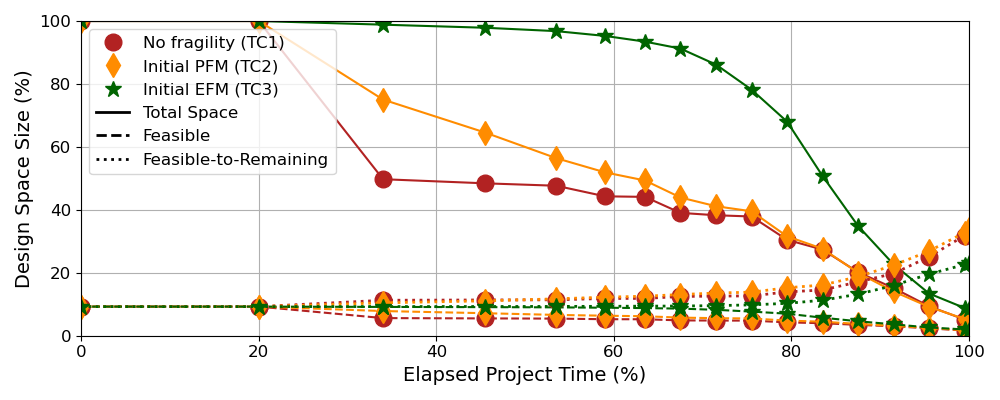
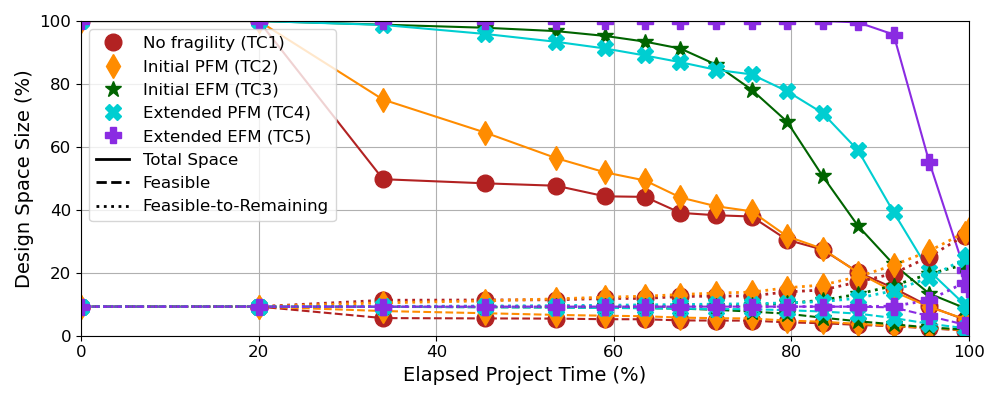
More results gathered

diff --git a/Python Code/Simulation_Results_Extend1_200_DTC1/plot_data.py b/Python Code/Simulation_Results_Extend1_200_DTC1/plot_data.py
@@ -49,7 +49,11 @@ def plotData(data, label_prefix, linestyle, colors, color_idx, marker):
     """
     
     # Loop through each test case's data
-    for i, (test_case, data_points) in enumerate(data.items()):
+    for i, test_case in enumerate(sorted(data.keys(), 
+                                         key=lambda x: int(x.split('_')[-1]))):
+        
+        # Assign data points
+        data_points = data[test_case]
         
         # Sort data points by its time iteration keys
         sorted_data_points = sorted(data_points.items(), key=lambda x: x[0])
@@ -106,15 +110,17 @@ def plotDisciplines(all_disciplines_data, feas1_disciplines_data,
     """
     
     # Initialize colors, line styles, markers, and legend names
-    colors = ['firebrick', 'darkorange', 'darkgreen']
+    colors = ['firebrick', 'darkorange', 'darkgreen', 'darkturquoise', 
+              'blueviolet']
     # line_styles = ['-', '--', ':', '-.', 'None', 'None']
     line_styles = ['-', '--', ':']
     # markers = ['', '', '', '', '*', '+']
-    markers = ['o', 'd', '*']
+    markers = ['o', 'd', '*', 'X', 'P']
     # data_groups = ['Total Space', 'Feasible Space', 'Feasible-to-Remaining']
     data_groups = ['Total Space', 'Feasible', 'Feasible-to-Remaining']
     custom_names = ["No fragility (TC1)", "Initial PFM (TC2)", 
-                    "Initial EFM (TC3)"] # , "Extended PFM (TC4)", "Extended EFM (TC5)"
+                    "Initial EFM (TC3)", "Extended PFM (TC4)",
+                    "Extended EFM (TC5)"]
     
     # Loop through each discipline's data
     for discipline, all_test_cases_data in all_disciplines_data.items():
@@ -196,7 +202,9 @@ def plotDiversity(discipline_data, data_type, linestyle, colors, marker):
     """
     
     # Initialize custom legend names
-    custom_names = ["No fragility (TC1)", "PFM (TC2)", "EFM (TC3)"] 
+    custom_names = ["No fragility (TC1)", "Initial PFM (TC2)", 
+                    "Initial EFM (TC3)", "Extended PFM (TC4)", 
+                    "Extended EFM (TC5)"] 
     
     # Loop through each discipline's data
     for discipline, all_test_cases_data in discipline_data.items():
@@ -208,7 +216,11 @@ def plotDiversity(discipline_data, data_type, linestyle, colors, marker):
         color_idx = 0
         
         # Loop through each test case's data
-        for j,(test_case,data_points) in enumerate(all_test_cases_data.items()):
+        for j, test_case in enumerate(sorted(all_test_cases_data.keys(), 
+            key=lambda x: int(x.split('_')[-1]))):
+            
+            # Label data points
+            data_points = all_test_cases_data[test_case]
             
             # Sort data points by its time iteration keys
             sorted_data_points = sorted(data_points.items(), key=lambda x: x[0])
@@ -279,10 +291,29 @@ with open('feas2_disciplines.pkl', 'rb') as f:
     feas2_disciplines_data = pickle.load(f)
 with open('diversity_disciplines.pkl', 'rb') as f:
     diversity_data = pickle.load(f)
+with open('allext_disciplines.pkl', 'rb') as f:
+    allext_disciplines_data = pickle.load(f)
+with open('feas1ext_disciplines.pkl', 'rb') as f:
+    feas1ext_disciplines_data = pickle.load(f)
+with open('feas2ext_disciplines.pkl', 'rb') as f:
+    feas2ext_disciplines_data = pickle.load(f)
+with open('diversityext_disciplines.pkl', 'rb') as f:
+    diversityext_data = pickle.load(f)
 # with open('Test_Case_1.pkl', 'rb') as f:
 #     Test_Case_1 = pickle.load(f)
 # with open('Discips.pkl', 'rb') as f:
 #     Discips = pickle.load(f)
+
+# Add extension data to total space remaining and diversity data
+for discip_key, discip_dict in all_disciplines_data.items():
+    for test_key, test_dict in allext_disciplines_data[discip_key].items():
+        discip_dict[test_key] = test_dict
+        feas1_disciplines_data[discip_key][test_key] = \
+            feas1ext_disciplines_data[discip_key][test_key]
+        feas2_disciplines_data[discip_key][test_key] = \
+            feas2ext_disciplines_data[discip_key][test_key]
+        diversity_data[discip_key][test_key] = \
+            diversityext_data[discip_key][test_key]
 
 # Create line plots for Disciplines 1, 2, and 3
 plotDisciplines(all_disciplines_data, feas1_disciplines_data,
@@ -290,6 +321,7 @@ plotDisciplines(all_disciplines_data, feas1_disciplines_data,
 
 # Create diversity plots for each discipline
 plotDiversity(diversity_data, 'Discrepancy', '-', 
-              ['firebrick', 'darkorange', 'darkgreen'],
-              marker = ['o', 'd', '*'])
+              ['firebrick', 'darkorange', 'darkgreen', 'darkturquoise', 
+               'blueviolet'],
+              marker = ['o', 'd', '*', 'X', 'P'])
 
